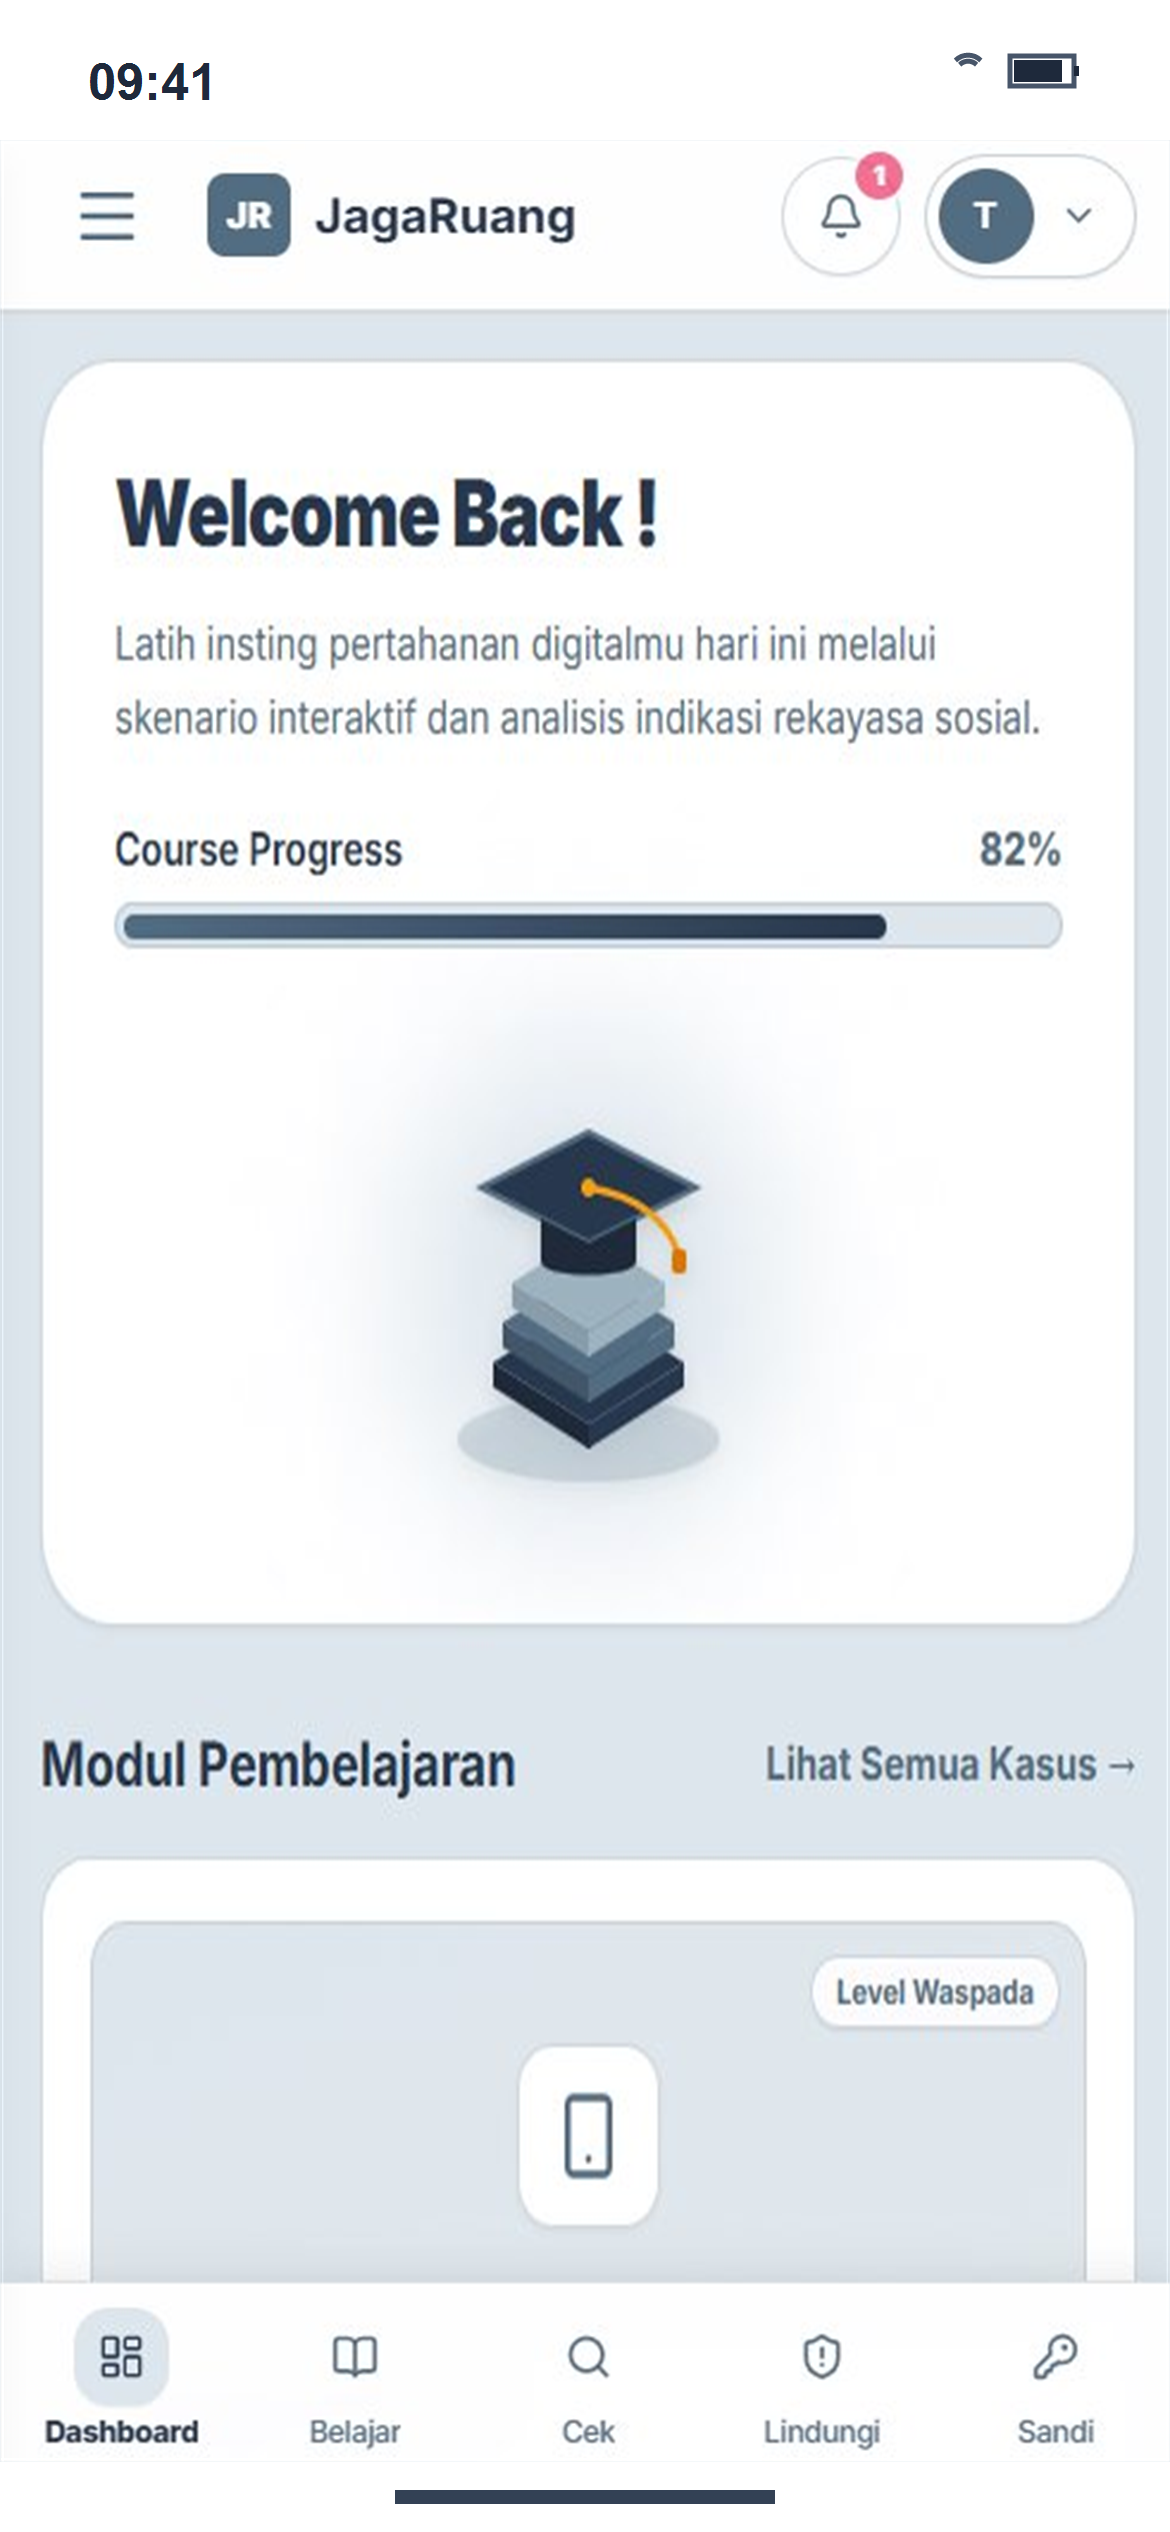
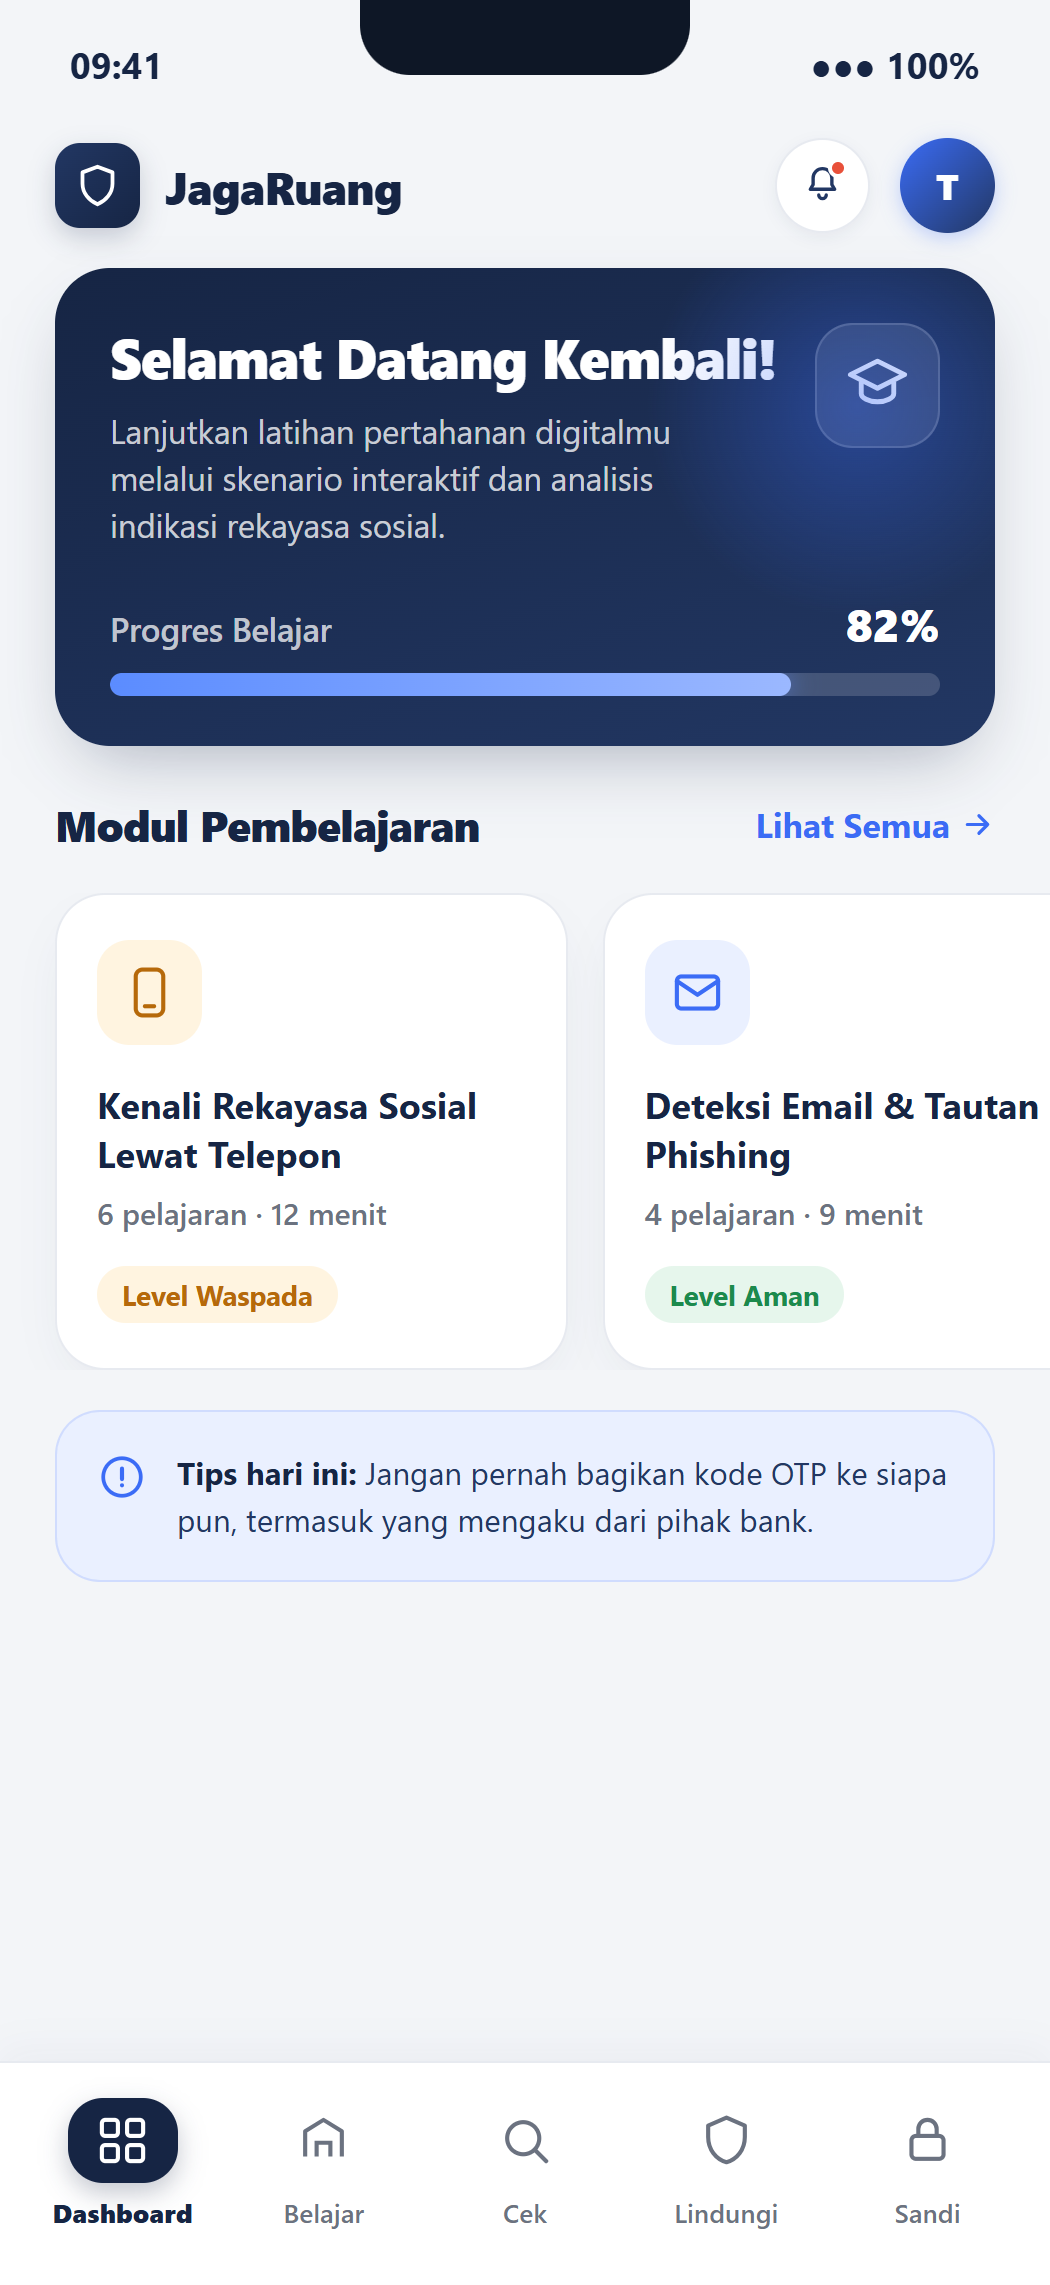
feat: add procedural 3D iPhone component and configuration for hero section

diff --git a/apps/web/src/components/hero3d/IPhone.tsx b/apps/web/src/components/hero3d/IPhone.tsx
@@ -81,40 +81,32 @@ function IPhoneComponent({ scale = 1 }: IPhoneProps) {
         )}
       </mesh>
 
-      {/* 4. Dynamic Island HORIZONTAL (Floating Item Hitam Horizontal di Atas Layar) */}
-      <group position={[0, dimensions.phoneHeight / 2 - 0.24, dimensions.phoneDepth / 2 + 0.016]}>
-        {/* Kapsul Hitam Horizontal: dirotasi 90 derajat (Math.PI / 2) pada sumbu Z agar mendatar */}
-        <mesh rotation={[0, 0, Math.PI / 2]}>
-          <capsuleGeometry args={[0.046, 0.36, 6, 12]} />
-          <meshBasicMaterial color="#000000" />
-        </mesh>
-        {/* Lensa Kamera Depan Kecil */}
-        <mesh position={[-0.11, 0, 0.002]}>
-          <circleGeometry args={[0.016, 12]} />
-          <meshBasicMaterial color="#1E293B" />
-        </mesh>
-      </group>
+      {/* 4. Earpiece Speaker Slit di Bezel Atas Layar */}
+      <mesh position={[0, dimensions.screenHeight / 2 + 0.035, dimensions.phoneDepth / 2 + 0.006]}>
+        <boxGeometry args={[0.28, 0.018, 0.008]} />
+        <meshBasicMaterial color="#050910" />
+      </mesh>
 
       {/* 5. Tombol Samping iPhone */}
       {/* Action Button */}
       <mesh position={[-dimensions.phoneWidth / 2 - 0.015, 1.25, 0]}>
         <boxGeometry args={[0.03, 0.15, 0.06]} />
-        <meshStandardMaterial color={colors.titaniumFrame} metalness={0.9} roughness={0.35} />
+        <meshStandardMaterial color={colors.titaniumHighlight} metalness={0.85} roughness={0.32} />
       </mesh>
       {/* Volume Up */}
       <mesh position={[-dimensions.phoneWidth / 2 - 0.015, 0.82, 0]}>
         <boxGeometry args={[0.03, 0.32, 0.06]} />
-        <meshStandardMaterial color={colors.titaniumFrame} metalness={0.9} roughness={0.35} />
+        <meshStandardMaterial color={colors.titaniumHighlight} metalness={0.85} roughness={0.32} />
       </mesh>
       {/* Volume Down */}
       <mesh position={[-dimensions.phoneWidth / 2 - 0.015, 0.40, 0]}>
         <boxGeometry args={[0.03, 0.32, 0.06]} />
-        <meshStandardMaterial color={colors.titaniumFrame} metalness={0.9} roughness={0.35} />
+        <meshStandardMaterial color={colors.titaniumHighlight} metalness={0.85} roughness={0.32} />
       </mesh>
       {/* Power Button */}
       <mesh position={[dimensions.phoneWidth / 2 + 0.015, 0.65, 0]}>
         <boxGeometry args={[0.03, 0.5, 0.06]} />
-        <meshStandardMaterial color={colors.titaniumFrame} metalness={0.9} roughness={0.35} />
+        <meshStandardMaterial color={colors.titaniumHighlight} metalness={0.85} roughness={0.32} />
       </mesh>
 
       {/* 6. Punggung Belakang iPhone & Kamera Pro */}

diff --git a/apps/web/src/components/hero3d/hero3d.config.ts b/apps/web/src/components/hero3d/hero3d.config.ts
@@ -10,18 +10,18 @@ export const HERO_3D_CONFIG = {
 
   // 2. PALET WARNA (Titanium Natural, Slate-50 / DDE6ED Screen, Emerald & Red Accents)
   colors: {
-    // Titanium Natural (iPhone 15/16 Pro - abu hangat titanium)
-    titaniumFrame: "#969087",      // Warm natural titanium
-    titaniumHighlight: "#C7C4BF",
-    titaniumDark: "#4D4943",
-    // Screen (DDE6ED latar dashboard JagaRuang)
-    screenBg: "#DDE6ED",
-    screenBezel: "#0F172A",
-    // Back matte frosted glass (Titanium Slate)
-    backGlass: "#2A3644",
-    cameraPlateau: "#1E2733",
-    cameraLensRing: "#A8A49E",
-    cameraLensGlass: "#0B111D",
+    // Midnight Space Black Frame (sesuai mockup UI ponsel JagaRuang #0E1726)
+    titaniumFrame: "#0E1726",
+    titaniumHighlight: "#223763",
+    titaniumDark: "#080D15",
+    // Screen (F3F5F8 latar bersih dashboard mockup)
+    screenBg: "#F3F5F8",
+    screenBezel: "#080D15",
+    // Back matte frosted glass
+    backGlass: "#0E1726",
+    cameraPlateau: "#080D15",
+    cameraLensRing: "#27374D",
+    cameraLensGlass: "#050910",
     // Orbit ring (Slate kebiruan berdimensi 3D)
     orbitRing: "#7E92A2",
     orbitEmissive: "#3B4E5E",

diff --git a/docs/frontend/CHANGELOG.md b/docs/frontend/CHANGELOG.md
@@ -84,7 +84,8 @@ Format: `[versi] tanggal` + perubahan, merujuk ID tugas di [`TASK_GUIDE.md`](TAS
       - Menyematkan elemen pola doodle (`<pattern id="chatDoodle">`) langsung ke dalam seluruh cover cuplikan obrolan SVG skenario (`k1-chat-snippet.svg` hingga `k8-chat-snippet.svg`) di [`Belajar.tsx`](file:///c:/Users/ASUS/Documents/code/JagaRuang/apps/web/src/pages/Belajar.tsx) dan [`Beranda.tsx`](file:///c:/Users/ASUS/Documents/code/JagaRuang/apps/web/src/pages/Beranda.tsx).
   - **Redesain Total Komposisi Visual 3D Hero (React Three Fiber & Drei)**:
     - Konsep tunggal terpadu: **"iPhone sebagai hero, orbit sebagai aksesori halus"**.
-    - **Model Prosedural iPhone 15/16 Pro (`IPhone.tsx`)**: Dibuat 100% secara prosedural dengan material titanium natural (`metalness 0.96`, `roughness 0.26`), layar depan glossy dengan Dynamic Island kapsul, tombol titanium (Action, Volume, Power), kaca frosted belakang, dan modul kamera 3 lensa Pro (outer titanium ring, inner dark bezel, glass lens, True Tone flash, serta LiDAR).
+    - **Model Prosedural iPhone Midnight Space Black (`IPhone.tsx` & `hero3d.config.ts`)**: Bodi ponsel disesuaikan menjadi nuansa Midnight Space Black (`#0E1726`) elegan sesuai desain mockup, bezel tipis presisi, slit earpiece di bezel atas, dan tombol samping beraksen navy gelap (`#223763`).
+    - **Tekstur Layar Dashboard Baru Ultra-HD (`dashboard-screen.png`)**: Menampilkan antarmuka mobile dashboard JagaRuang terbaru sesuai mockup (Notch lengkung atas, status bar 09:41, kartu Selamat Datang Kembali! dengan progres belajar 82%, modul horizontal Level Waspada & Level Aman, tip keamanan harian OTP, dan 5 tab navigasi bawah aktif).
     - **Layar HTML Ultra-Tajam (`<Html transform>`)**: Tampilan antarmuka tajam dengan kontras tinggi (setara 11-12px final) menampilkan 3 elemen fokus: Header JagaRuang Mobile dengan status bar, Kartu Peringatan Kritis merah (`Undangan_Pernikahan.apk`), dan Kartu Status Hijau terverifikasi (`Tautan Aman`).
     - **Satu Cincin Orbit Halus (`Orbit.tsx`)**: Satu cincin torus tipis berbagi titik pusat sama `[0, 0, 0]` dengan HP, memotong depan dan belakang dengan *depth buffer* akurat (`depthWrite={false}` dan `renderOrder={1}` untuk mengatasi clipping menembus phone body), serta partikel bercahaya emerald yang mengitari cincin.
     - **Kartu Notifikasi Melayang Berkedalaman (`FloatingCards.tsx`)**: 3 kartu notifikasi melayang dengan parallax multi-layer (`occlude={false}` mencegah geometry occlusion) dengan posisi terkoreksi (card1 `[-1.95, 1.45, 0.7]`, card2 `[1.90, -1.35, 0.85]`, card3 `[1.85, 1.65, -0.45]`) agar tetap dalam frustum kamera.
